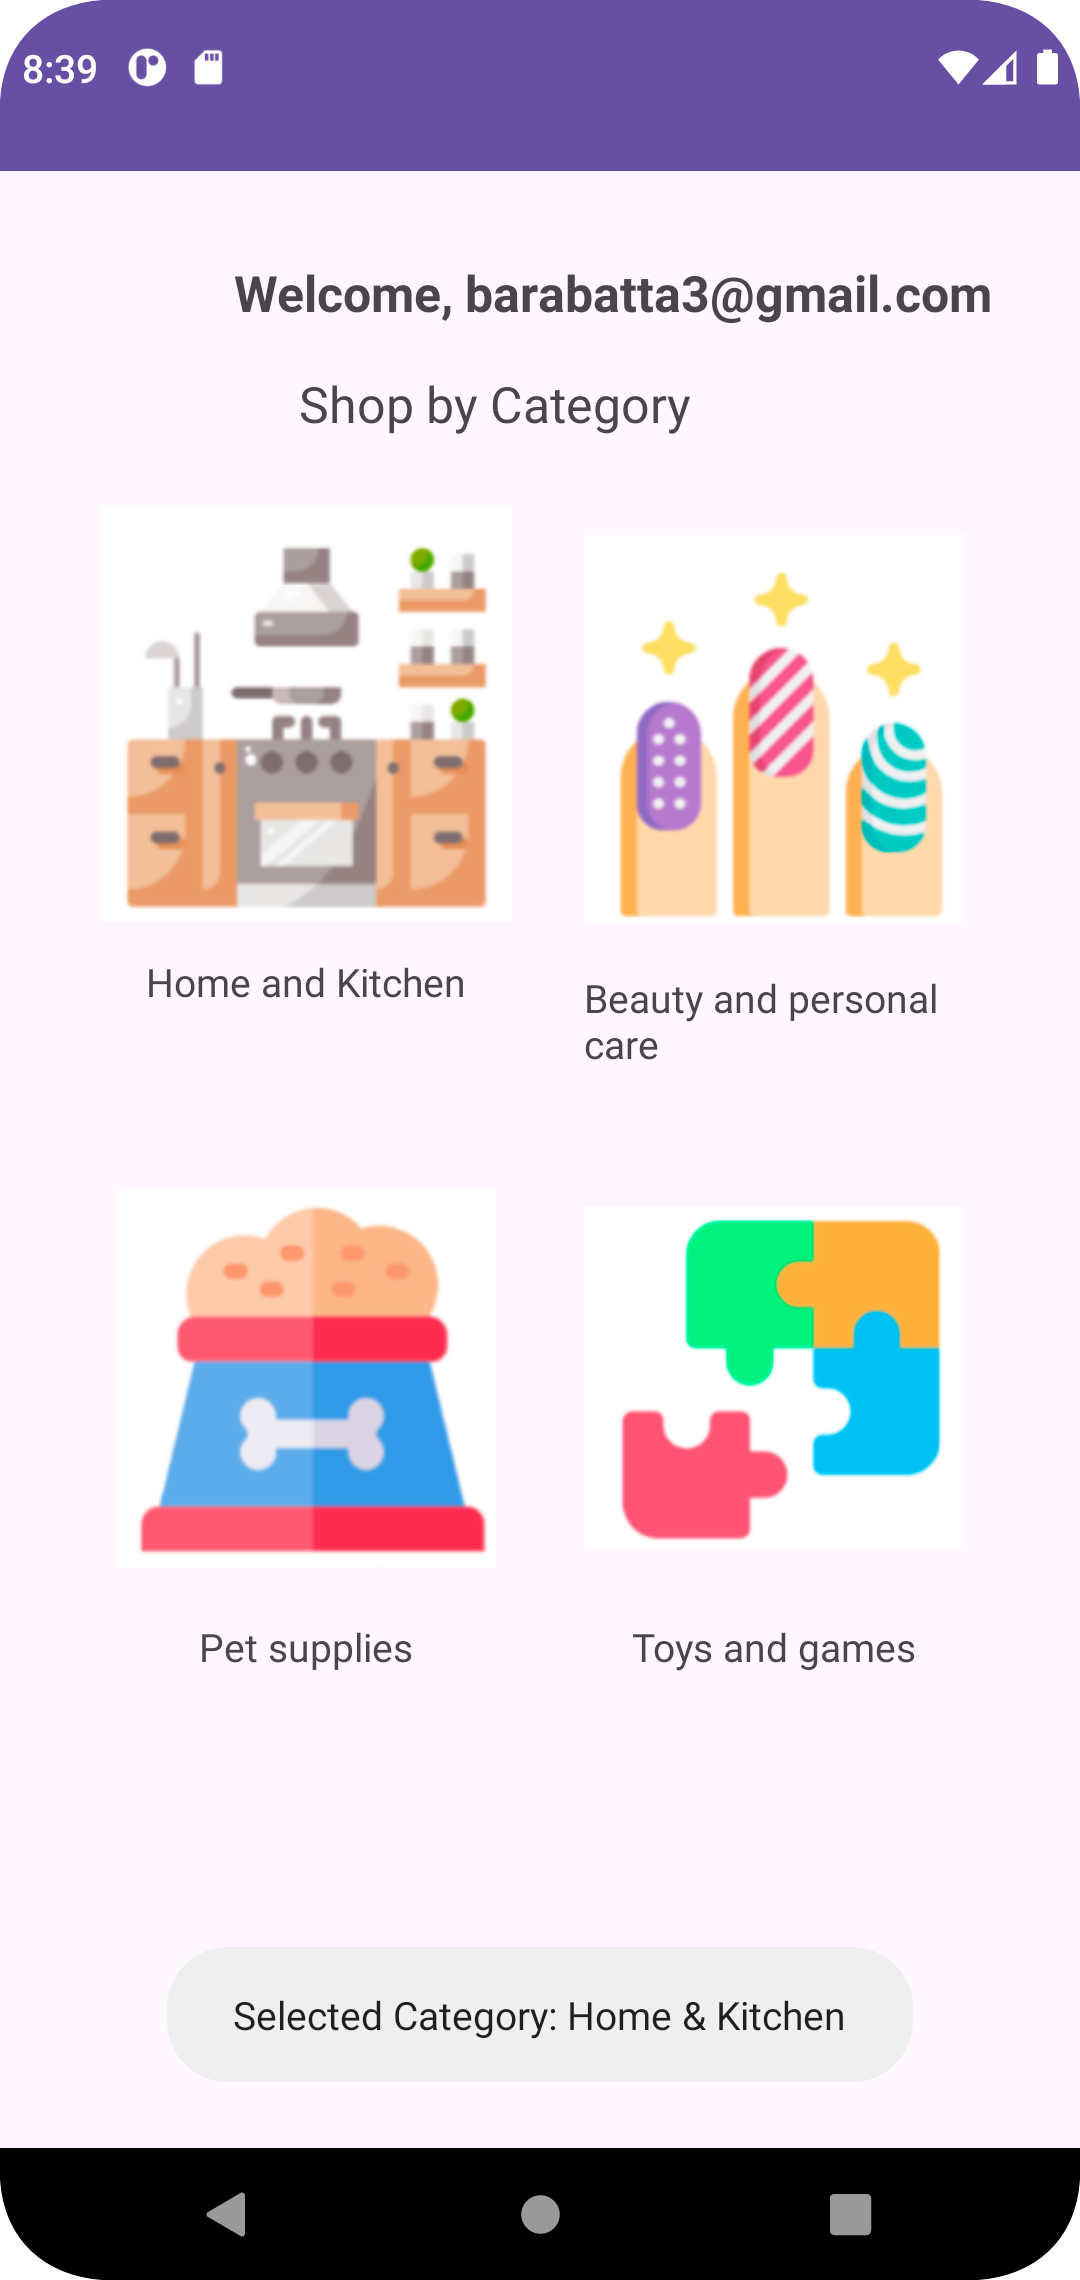
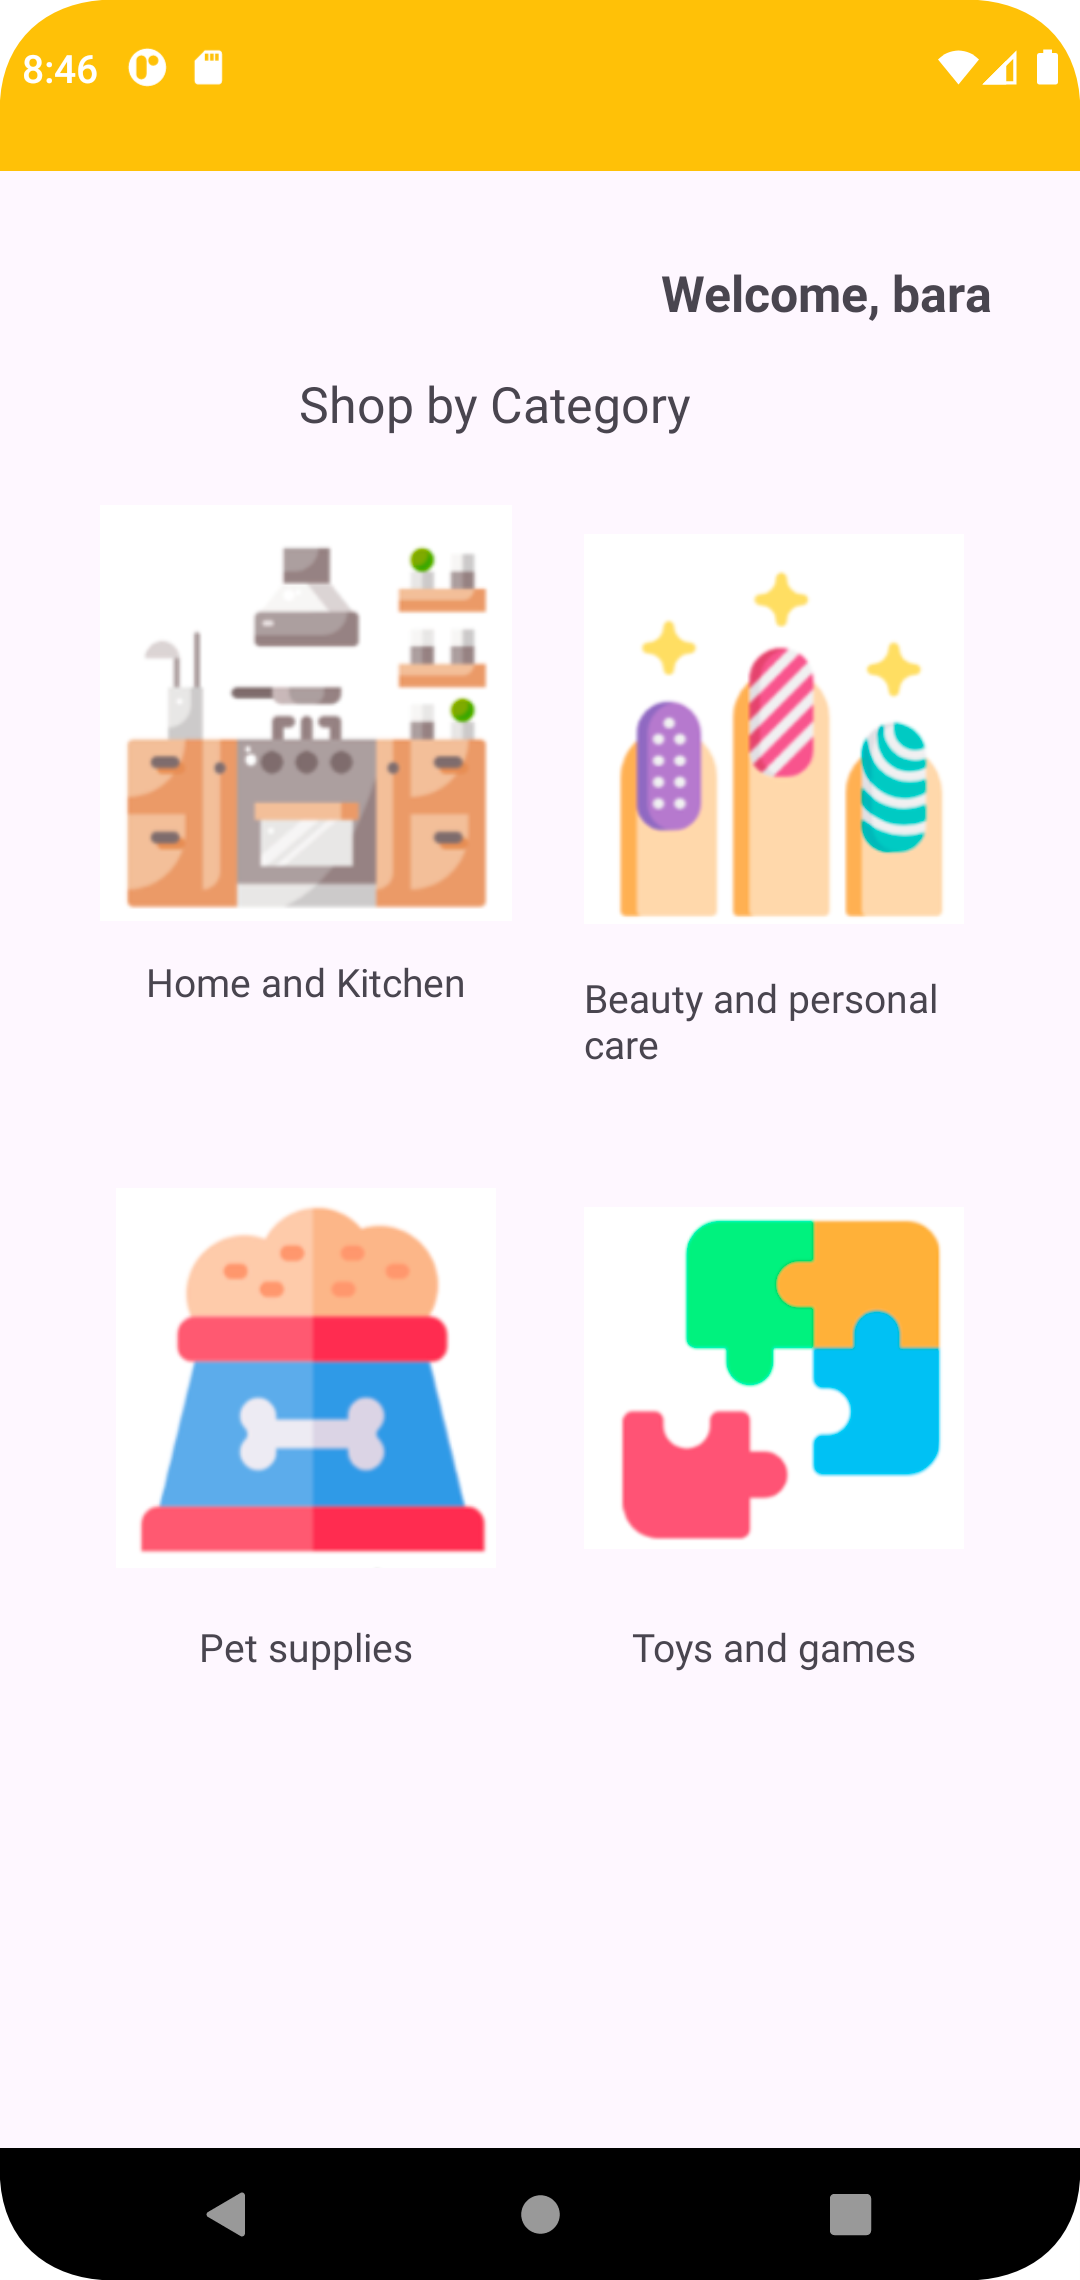
status bar theme, and user name

Changed region(s): [[0.0, 0.0, 1.0, 0.0934], [0.2139, 0.1246, 0.9167, 0.1557], [0.2139, 0.8719, 0.7639, 0.9031]]

diff --git a/app/src/main/java/com/example/ecommerce/ShoppingCategoryActivity.kt b/app/src/main/java/com/example/ecommerce/ShoppingCategoryActivity.kt
@@ -16,7 +16,7 @@ class ShoppingCategoryActivity : AppCompatActivity() {
 
         // Retrieve the logged-in username
         val sharedPref = getSharedPreferences("AppUserPrefs", MODE_PRIVATE)
-        val loggedInUsername = sharedPref.getString("LOGGED_IN_USERNAME", "User")
+        val loggedInUsername = sharedPref.getString("USERNAME", "User")
         binding.welcomeTextView.text = "Welcome, $loggedInUsername"
 
         // Setup listeners for your category buttons
